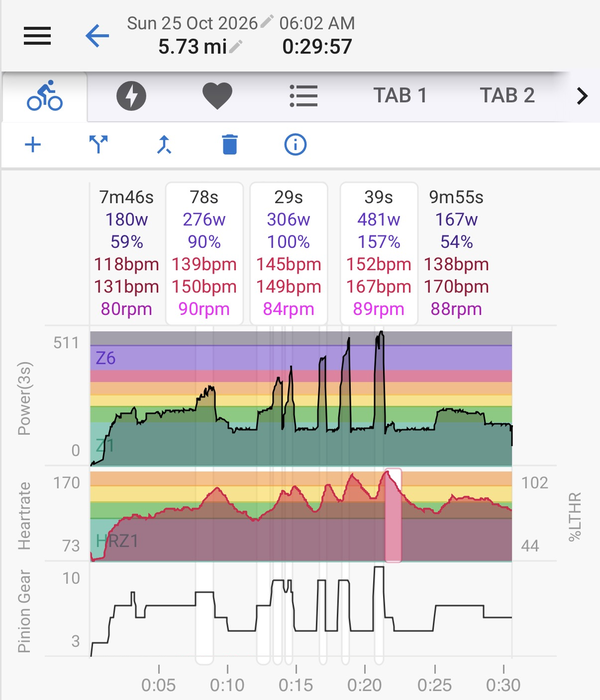
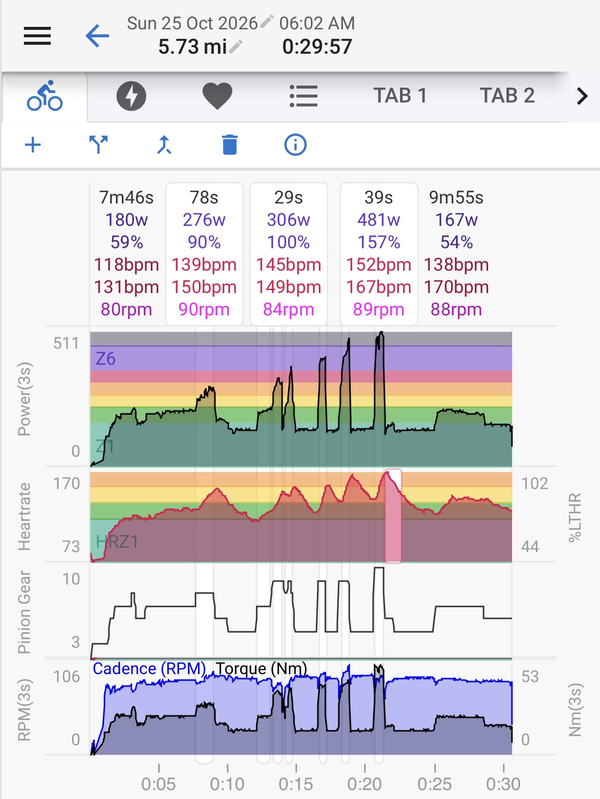
README: intervals.icu screenshot now includes the cadence panel
Claude-Session: https://claude.ai/code/session_01TUWDCXe6EXp29R6Xn6U5AR

diff --git a/README.md b/README.md
@@ -23,12 +23,12 @@ They are ordinary Karoo fields, so they look and behave like the built-in ones.
   <tr>
     <td align="center"><img src="docs/ride-all-fields.png" width="240" alt="A Karoo 2 ride page with all eight Pinion fields during a ride"></td>
     <td align="center"><img src="docs/ride-compact.png" width="240" alt="A ride page with 3s Cad + Gear and Shifts + Avg Gear under zone-coloured power and heart rate"></td>
-    <td align="center"><img src="docs/intervals-gear.png" width="240" alt="intervals.icu chart of the ride with the Pinion Gear stream under power and heart rate"></td>
+    <td align="center"><img src="docs/intervals-gear.png" width="240" alt="intervals.icu chart of the ride with the Pinion Gear stream between heart rate and cadence"></td>
   </tr>
   <tr>
     <td align="center">All eight Pinion fields mid-ride (Karoo 2)</td>
     <td align="center">Split fields on a compact ride page</td>
-    <td align="center">The gear from the ride file in intervals.icu</td>
+    <td align="center">The gear from the ride file in intervals.icu, with power, heart rate and cadence</td>
   </tr>
 </table>
 
